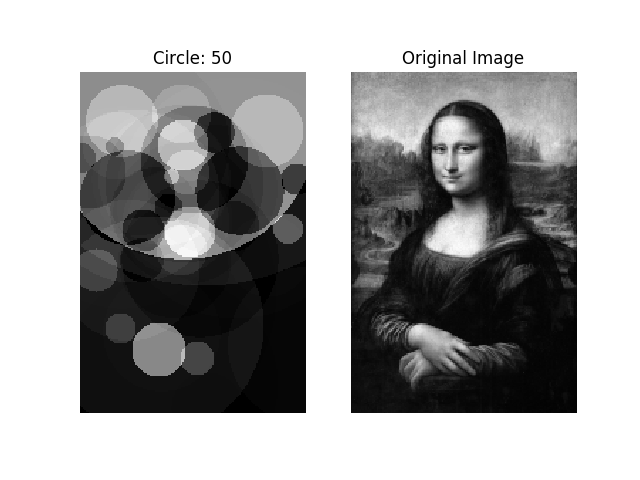
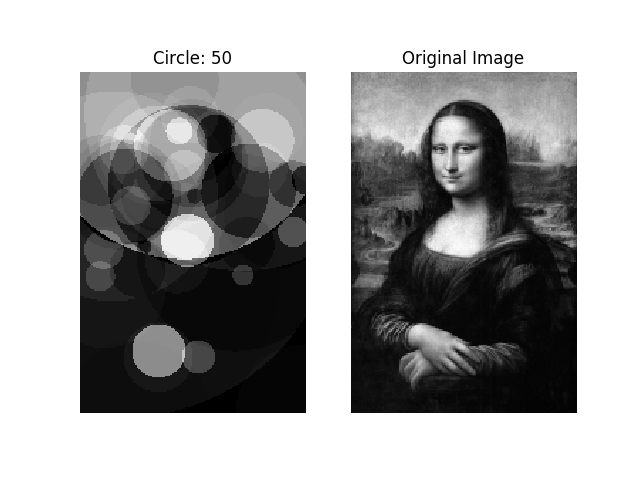
Made code 10% faster. Reran mona_lisa.

diff --git a/ga.py b/ga.py
@@ -6,7 +6,7 @@ import cProfile
 
 class GA():
     ELITISM = 0.10
-    def __init__(self, population=50, generations=50, circles=200, headless=False):
+    def __init__(self, population=20, generations=70, circles=200, headless=False):
         self.pop_size = population
         self.gens = generations
         self.circles = circles
@@ -42,7 +42,7 @@ class GA():
             elif self.epoch == 49:
                 if self.headless:
                     self.Draw()
-                plt.savefig('results/' + filename + '_50.png')
+                plt.savefig('results/' + filename + '_050.png')
             elif self.epoch == 99:
                 if self.headless:
                     self.Draw()
@@ -112,14 +112,11 @@ class GA():
 
     def Fitness(self, individual):
         """Scores fitness for an individual"""
-        # Note: individual is a numpy array of dtype=self.genome
 
-        # https://stackoverflow.com/a/44874588/5492446
-        center = individual['center']
-        Y, X = np.ogrid[:self.height, :self.width]
-        dist_from_center = np.sqrt((X - center['x'])**2 + (Y-center['y'])**2, dtype=np.float32)
-
-        mask = dist_from_center <= individual['radius']
+        # https://stackoverflow.com/a/44874588/5492446 + Austin
+        cx, cy, r = individual['center']['x'], individual['center']['y'], individual['radius']
+        Y, X = np.ogrid[-cy:self.height - cy, -cx:self.width - cx]
+        mask = X**2 + Y**2 <= r**2
 
         # Where the magic begins
         pixel_count = np.sum(mask, dtype=np.float32)
@@ -228,7 +225,6 @@ class GA():
     def Crossover(self, a, b):
         """Performs crossover on two selected individuals and returns the 
            children to be added to new_pop"""
-        # return None, None
         avg = self.AverageGeneome(a, b)
         mutant = self.MutateGeneome(avg)
         return avg, mutant
@@ -306,7 +302,7 @@ class GA():
 
 
 if __name__ == '__main__':
-    ga = GA(headless=False)
+    ga = GA(headless=True)
     # cProfile.run('ga.Run("images/test3.png")', sort="time")
     ga.Run('images/mona_lisa.png')
     plt.ioff()
